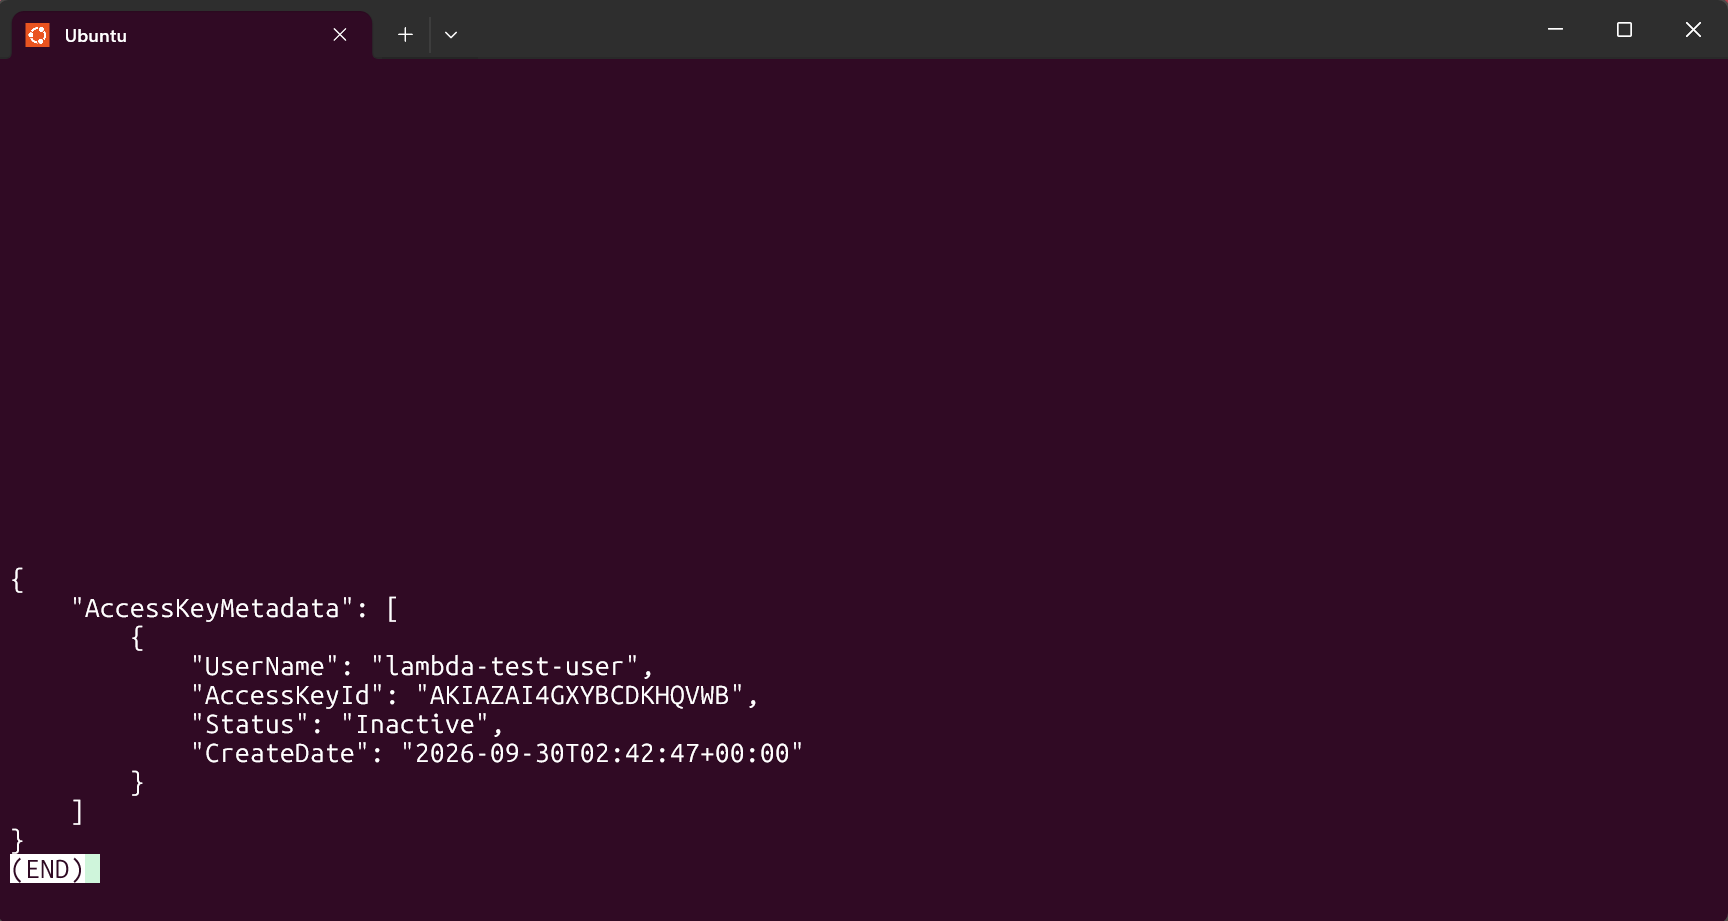
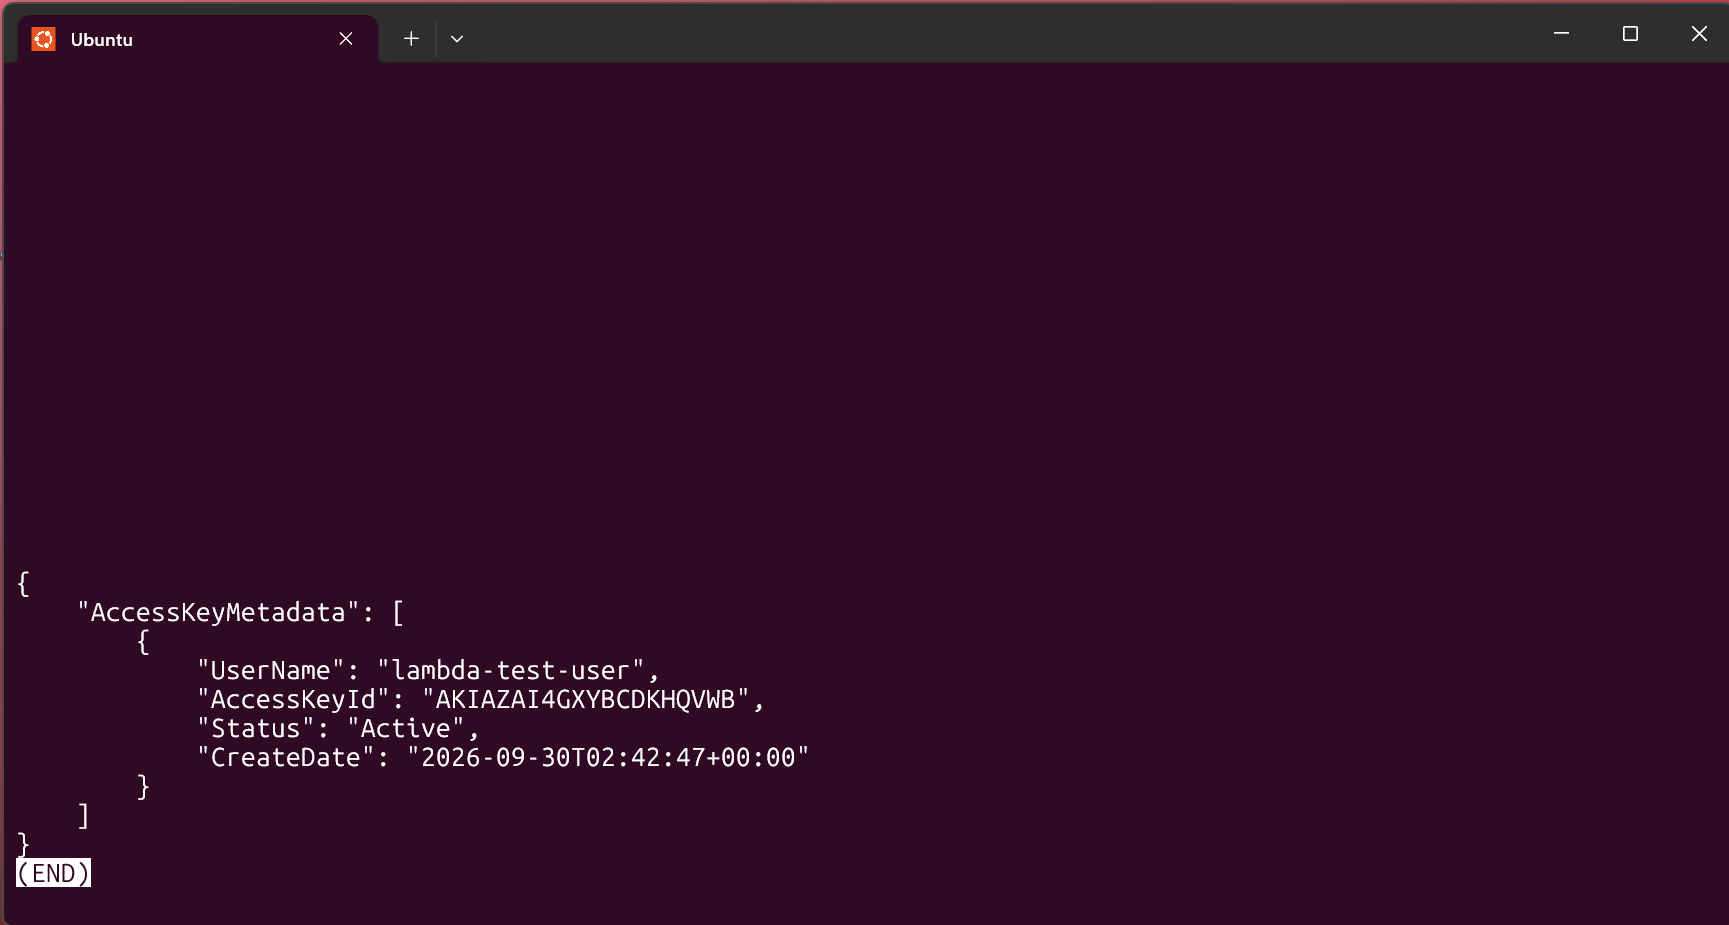
Enhanced Lambda auto-remediation README.md

diff --git a/README.md b/README.md
@@ -80,12 +80,14 @@ aws guardduty create-sample-findings --detector-id <id> \
 This confirmed GuardDuty → EventBridge → Lambda invocation worked end-to-end. Since the sample finding names a fictional user (`GeneratedFindingUserName`), the function correctly caught the resulting `NoSuchEntity` error from IAM and logged the failure — proving both the invocation path and the error-handling path work as designed.
 
 **Test B — actual remediation, via a real throwaway IAM user:**
-A disposable IAM user and access key were created via the CLI, and the function was manually invoked with a test event matching the real finding's JSON shape. The result:
+A disposable IAM user and access key were created via the CLI, and the function was manually invoked with a test event matching the real finding's JSON shape
+The result (before remediation):
 
 ![Before lambda remediation](screenshots/before-actual-remediation.png)
 
 
 Confirmed independently via `aws iam list-access-keys` — the key's status changed from `Active` to `Inactive`, proving the actual AWS-side remediation, not just a log message claiming success.
+The result(after remediation)
 
 ![After lambda remediation](screenshots/after-actual-remediation.png)
 
